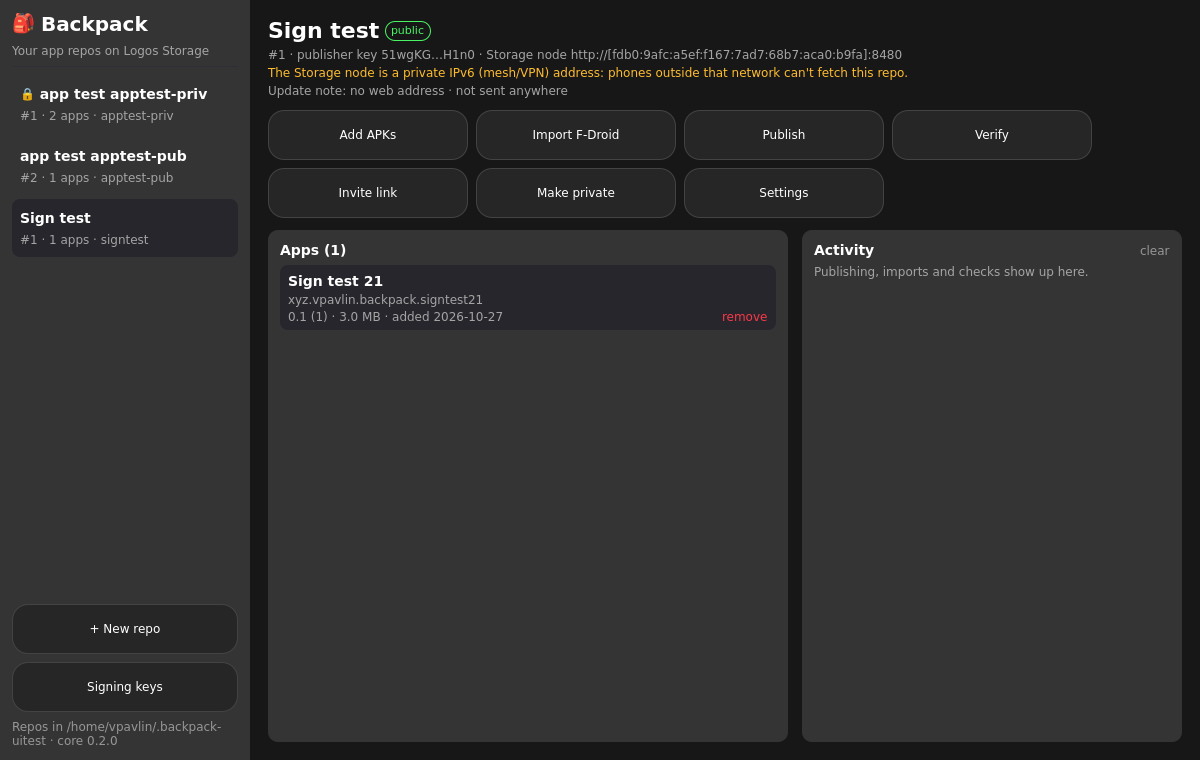
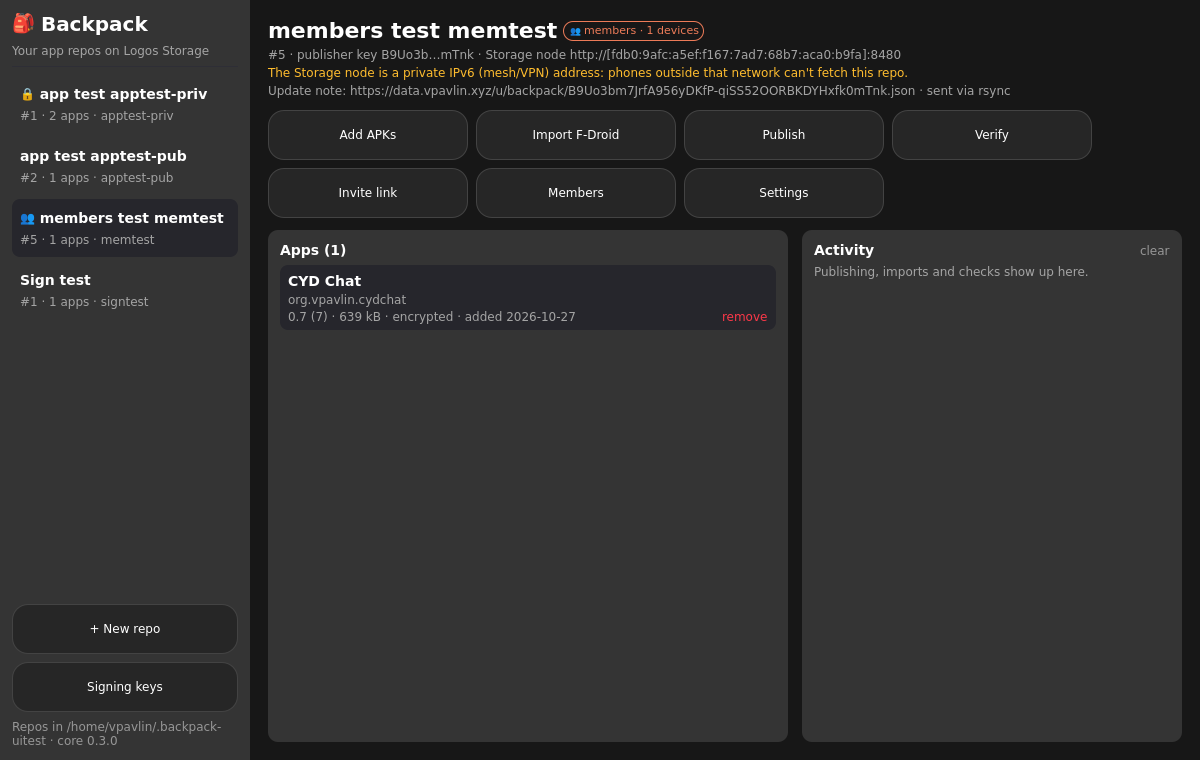
backpack_ui 0.3.0: member repos (create, Members dialog: add by member code, remove, publish), members badge

diff --git a/basecamp/backpack_ui/Main.qml b/basecamp/backpack_ui/Main.qml
@@ -156,7 +156,7 @@ Item {
                         ColumnLayout {
                             anchors.fill: parent; anchors.margins: 8; spacing: 2
                             RowLayout {
-                                T { text: (modelData.private ? "🔒 " : "") + (modelData.name || modelData.slug); font.bold: true; elide: Text.ElideRight; wrapMode: Text.NoWrap; Layout.fillWidth: true }
+                                T { text: (modelData.members ? "👥 " : modelData.private ? "🔒 " : "") + (modelData.name || modelData.slug); font.bold: true; elide: Text.ElideRight; wrapMode: Text.NoWrap; Layout.fillWidth: true }
                                 Rectangle { visible: !!modelData.busy; width: 8; height: 8; radius: 4; color: root.cWarn }
                             }
                             Sub { text: modelData.error ? modelData.error : ("#" + modelData.seq + " · " + modelData.appCount + " apps · " + modelData.slug); elide: Text.ElideRight; wrapMode: Text.NoWrap; Layout.fillWidth: true }
@@ -184,7 +184,8 @@ Item {
                         Layout.fillWidth: true; spacing: 4
                         RowLayout {
                             T { text: root.cur ? root.cur.name : ""; font.pixelSize: 22; font.bold: true }
-                            Badge { visible: !!(root.cur && root.cur.private); text: "🔒 private"; tone: root.cWarn }
+                            Badge { visible: !!(root.cur && root.cur.private && !root.cur.members); text: "🔒 private"; tone: root.cWarn }
+                            Badge { visible: !!(root.cur && root.cur.members); text: "👥 members · " + (root.cur && root.cur.memberDevices ? root.cur.memberDevices.length : 0) + " devices"; tone: root.cAccent }
                             Badge { visible: !!(root.cur && !root.cur.private); text: "public"; tone: root.cOk }
                             Badge { visible: !!(root.cur && root.cur.busy); text: "working…"; tone: root.cAccent }
                         }
@@ -201,7 +202,9 @@ Item {
                     LogosButton { text: "Publish"; enabled: !!root.cur && !root.cur.busy; onClicked: root.act("publish", [root.sel, "0"], "Publishing…") }
                     LogosButton { text: "Verify"; enabled: !!root.cur && !root.cur.busy; onClicked: root.act("verify", [root.sel, "1"], "Checking every APK the way a phone does…") }
                     LogosButton { text: "Invite link"; enabled: !!root.cur && root.cur.hasLink; onClicked: linkDialog.show() }
+                    LogosButton { text: "Members"; visible: !!(root.cur && root.cur.members); enabled: !!root.cur && !root.cur.busy; onClicked: membersDialog.open() }
                     LogosButton {
+                        visible: !(root.cur && root.cur.members)
                         text: root.cur && root.cur.private ? "Rotate read key" : "Make private"
                         enabled: !!root.cur && !root.cur.busy
                         onClicked: confirmDialog.ask(root.cur.private
@@ -308,7 +311,7 @@ Item {
     Popup {
         id: newDialog; modal: true; anchors.centerIn: parent; width: 440; padding: 18
         background: Rectangle { radius: 10; color: root.cSurface; border.color: root.cLine }
-        onOpened: { nName.text = ""; nSlug.text = ""; nSlug.edited = false; nPriv.checked = false; nNode.text = root.st.lastNode || ""; nNodeMsg.text = ""; nName.forceActiveFocus() }
+        onOpened: { nName.text = ""; nSlug.text = ""; nSlug.edited = false; nKind.kind = "0"; nNode.text = root.st.lastNode || ""; nNodeMsg.text = ""; nName.forceActiveFocus() }
         ColumnLayout {
             width: parent.width; spacing: 10
             T { text: "New repo"; font.bold: true; font.pixelSize: 17 }
@@ -323,12 +326,25 @@ Item {
                 LogosButton { Layout.preferredWidth: 120; text: "Test"; enabled: nNode.text.length > 8; onClicked: root.testNode(nNode.text.trim(), nNodeMsg) }
             }
             Sub { id: nNodeMsg; Layout.fillWidth: true; visible: text !== "" }
-            CheckBox { id: nPriv; text: "Private: only people with the invite link can read it"; contentItem: Text { leftPadding: 28; text: nPriv.text; color: root.cText; font.pixelSize: 13; textFormat: Text.PlainText; verticalAlignment: Text.AlignVCenter } }
+            Sub { text: "Who can read it" }
+            ColumnLayout {
+                id: nKind; property string kind: "0"; spacing: 2
+                Repeater {
+                    model: [{ k: "0", t: "Public: anyone with the link" },
+                            { k: "1", t: "Private: only people with the invite link (the link carries the read key)" },
+                            { k: "2", t: "Members: only devices you add (the link carries no key; you add each phone's member code)" }]
+                    RadioButton {
+                        checked: nKind.kind === modelData.k; onClicked: nKind.kind = modelData.k; text: modelData.t
+                        contentItem: Text { leftPadding: 28; text: parent.text; color: root.cText; font.pixelSize: 13; textFormat: Text.PlainText; wrapMode: Text.Wrap; verticalAlignment: Text.AlignVCenter }
+                        Layout.fillWidth: true
+                    }
+                }
+            }
             RowLayout {
                 Item { Layout.fillWidth: true }
                 LogosButton { text: "Cancel"; onClicked: newDialog.close() }
                 LogosButton { text: "Create"; enabled: nName.text.length > 0 && nSlug.text.length > 0
-                    onClicked: { var slug = nSlug.text; root.act("createRepo", [slug, nName.text, nPriv.checked ? "1" : "0", nNode.text.trim()], "Repo created", function () { root.sel = slug; newDialog.close() }) } }
+                    onClicked: { var slug = nSlug.text; root.act("createRepo", [slug, nName.text, nKind.kind, nNode.text.trim()], "Repo created", function () { root.sel = slug; newDialog.close() }) } }
             }
         }
     }
@@ -363,7 +379,7 @@ Item {
             root.core("link", [root.sel], function (raw) {
                 var r = root.parse(raw)
                 if (!r || r.ok === false) { root.toast(r ? r.error : "No answer", true); return }
-                linkDialog.link = r.link; linkDialog.priv = r.private; linkDialog.qr = r.qr; qrCanvas.requestPaint(); linkDialog.open()
+                linkDialog.link = r.link; linkDialog.priv = r.private && !(root.cur && root.cur.members); linkDialog.qr = r.qr; qrCanvas.requestPaint(); linkDialog.open()
             })
         }
         onClosed: { link = ""; qr = null }
@@ -371,6 +387,7 @@ Item {
             width: parent.width; spacing: 10
             T { text: "Invite link"; font.bold: true; font.pixelSize: 17 }
             Sub { visible: linkDialog.priv; color: root.cWarn; Layout.fillWidth: true; text: "🔒 This link carries the READ KEY: whoever has it can read the repo. Share it only with people you mean to, and not in public chats." }
+            Sub { visible: !!(root.cur && root.cur.members); Layout.fillWidth: true; text: "👥 Members repo: this link carries no key. It works only on devices you added under Members (after a publish); others see \"not a member\"." }
             Sub { visible: !linkDialog.priv; Layout.fillWidth: true; text: "Open it on the phone (or scan the code in Backpack: + Repo) to add the repo." }
             Canvas {
                 id: qrCanvas; Layout.alignment: Qt.AlignHCenter; width: 260; height: 260
@@ -386,6 +403,47 @@ Item {
                 Item { Layout.fillWidth: true }
                 LogosButton { text: "Copy link"; onClicked: root.copyText(linkDialog.link) }
                 LogosButton { text: "Close"; onClicked: linkDialog.close() }
+            }
+        }
+    }
+
+    // ── members (ADR 0013): the devices that get this repo's read key, wrapped for each at publish
+    Popup {
+        id: membersDialog; modal: true; anchors.centerIn: parent; width: 600; padding: 18
+        background: Rectangle { radius: 10; color: root.cSurface; border.color: root.cLine }
+        onOpened: { mCode.text = "" }
+        ColumnLayout {
+            width: parent.width; spacing: 10
+            T { text: "Members"; font.bold: true; font.pixelSize: 17 }
+            Sub { Layout.fillWidth: true; text: "Each device here gets the read key, wrapped for it alone, at the next publish. The key changes every hour and whenever you remove a device, so a removed device can't read new versions (what it already has stays its own)." }
+            ListView {
+                Layout.fillWidth: true; Layout.preferredHeight: Math.min(contentHeight, 280); clip: true; spacing: 6
+                model: root.cur && root.cur.memberDevices ? root.cur.memberDevices : []
+                delegate: RowLayout {
+                    width: ListView.view.width
+                    ColumnLayout {
+                        Layout.fillWidth: true; Layout.preferredWidth: 1; spacing: 1
+                        T { text: modelData.name; font.bold: true }
+                        Sub { text: "key " + root.keyShort(modelData.pk) + (modelData.added ? " · added " + modelData.added.slice(0, 10) : "") }
+                    }
+                    LogosButton { Layout.preferredWidth: 110; text: "Remove"; enabled: !!root.cur && !root.cur.busy
+                        onClicked: { var pk = modelData.pk, nm = modelData.name
+                            confirmDialog.ask("Remove " + nm + "? After the next publish it can't read new versions.", function () { root.act("removeMember", [root.sel, pk], "Removed: publish to apply it") }) } }
+                }
+            }
+            Sub { visible: !(root.cur && root.cur.memberDevices && root.cur.memberDevices.length); text: "No devices yet." }
+            Rectangle { Layout.fillWidth: true; height: 1; color: root.cLine }
+            Sub { Layout.fillWidth: true; text: "Add a device: in Backpack on the phone, Settings → This phone's member code → Copy link, and paste it here (backpack://member?…). It isn't secret." }
+            RowLayout {
+                Layout.fillWidth: true
+                DField { id: mCode; placeholderText: "backpack://member?pk=…&n=…" }
+                LogosButton { Layout.preferredWidth: 110; text: "Add"; enabled: mCode.text.indexOf("backpack://member?") >= 0
+                    onClicked: root.act("addMember", [root.sel, mCode.text.trim()], "Added: publish to give it access", function () { mCode.text = "" }) }
+            }
+            RowLayout {
+                Item { Layout.fillWidth: true }
+                LogosButton { text: "Publish now"; enabled: !!root.cur && !root.cur.busy; onClicked: { root.act("publish", [root.sel, "0"], "Publishing…"); membersDialog.close() } }
+                LogosButton { text: "Close"; onClicked: membersDialog.close() }
             }
         }
     }
